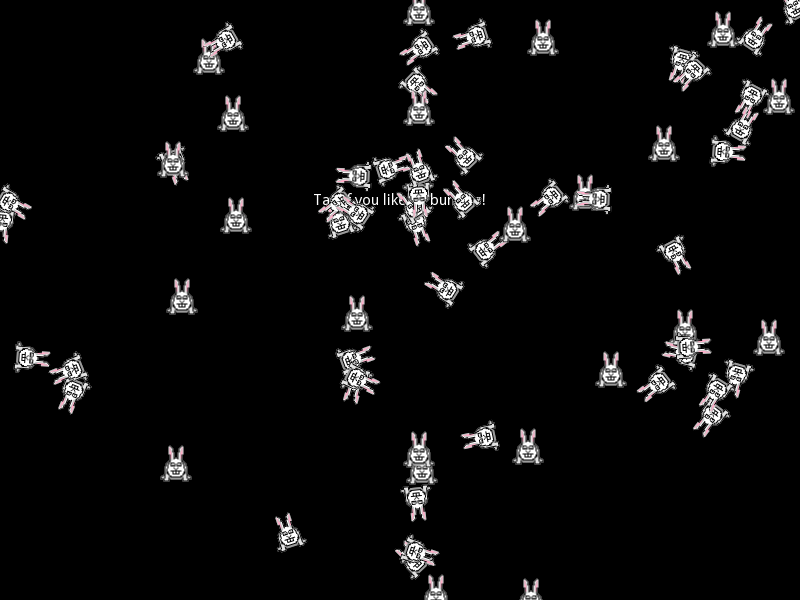
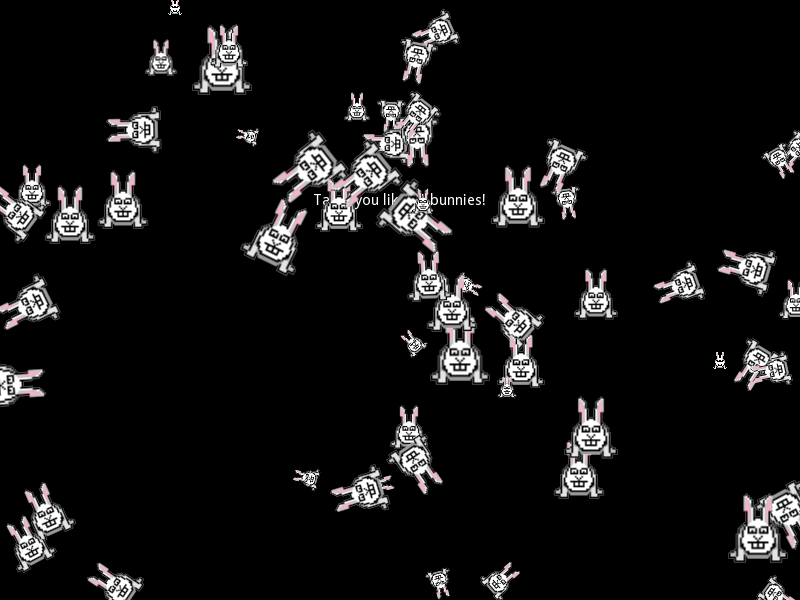
updated screenshot of scaling, reusable SpriteWidget class

diff --git a/kivy_spinning_bunnies.py b/kivy_spinning_bunnies.py
@@ -1,20 +1,15 @@
 #expertmm forked this from https://gist.github.com/tshirtman/6222891
 
 from kivy.app import App
-from kivy.properties import NumericProperty
-from kivy.lang import Builder
+#from kivy.properties import NumericProperty
+#from kivy.lang import Builder
 from kivy.clock import Clock
 
 from kivy.uix.label import Label
-from kivy.graphics import PushMatrix
-from kivy.graphics import PopMatrix
-from kivy.graphics import Rotate
-from kivy.graphics import Rectangle
-from kivy.graphics import Color
 from kivy.uix.widget import Widget
-from kivy.uix.boxlayout import BoxLayout
 
-import math
+from spritewidget import SpriteWidget
+
 import random
 
 def getRandomPos(lessThanX, lessThanY):
@@ -22,71 +17,7 @@ def getRandomPos(lessThanX, lessThanY):
         
 
 #the variables marked with underscores should not be touched except internally
-class FreeWidget(Widget):
-    freeAngle = None
-    freePos = None
-    _rotation_instruction = None
-    _rectangle_instruction = None
-    
-    degreesPerSecond = None
-    speedPixelsPerFrameXYPair = None
-    
-    def __init__(self, **kwargs):
-        super(FreeWidget, self).__init__(**kwargs)
-        self.freeAngle = 0.0
-        self.degreesPerSecond = 0.0
-        self.freePos = (10.0,100.0)
-        self._rotation_instruction = Rotate(angle=self.freeAngle, origin=self.freePos)
-        self._rectangle_instruction = Rectangle(source="bunny.png", pos=self.freePos, size=(41.0,41.0))
-#         with self.canvas.before:
-#             PushMatrix()
-#             Rotate(angle=self.freeAngle, origin = self.freePos)
-        self.canvas.add(PushMatrix())
-        self.canvas.add(self._rotation_instruction)  #self.canvas.add(Rotate(angle=self.freeAngle, origin = self.freePos))
-        self.canvas.add(Color(1.0,1.0,1.0,1.0))
-        self.canvas.add(self._rectangle_instruction)  #self.canvas.add(Rectangle(pos=self.freePos, size=(10.0,20.0)))
-        self.canvas.add(PopMatrix())
-        self.refresh()
-#         with self.canvas.after:
-#             PopMatrix()
-    
-    def refresh(self):
-        if (self.speedPixelsPerFrameXYPair is not None):
-            self.freePos = self.freePos[0] + self.speedPixelsPerFrameXYPair[0], self.freePos[1] + self.speedPixelsPerFrameXYPair[1]
-        self.freeAngle += self.degreesPerSecond
-        self._change_instructions()
-    
-    def _change_instructions(self):
-        self._rectangle_instruction.pos = self.freePos[0]-self._rectangle_instruction.size[0]/2.0, self.freePos[1]-self._rectangle_instruction.size[1]/2.0
-        self._rotation_instruction.origin = self.freePos
-        self._rotation_instruction.angle = self.freeAngle
-        
-        
-    def set_center_x(self, x):
-        self.freePos = float(x), self.freePos[1]
-        self._change_instructions()
 
-    def set_center_y(self, y):
-        self.freePos = self.freePos[0], float(y)
-        self._change_instructions()
-    
-        
-    def get_center_x(self):
-        return self.freePos[0]
-    
-    def get_center_y(self):
-        return self.freePos[1]
-    
-    def load_image_file(self, fileName):
-        self._rectangle_instruction.source=fileName
-    
-    def bounce_x(self):
-        if self.speedPixelsPerFrameXYPair is not None:
-            self.speedPixelsPerFrameXYPair = self.speedPixelsPerFrameXYPair[0]*-1.0, self.speedPixelsPerFrameXYPair[1]
-
-    def bounce_y(self):
-        if self.speedPixelsPerFrameXYPair is not None:
-            self.speedPixelsPerFrameXYPair = self.speedPixelsPerFrameXYPair[0], self.speedPixelsPerFrameXYPair[1]*-1.0
 
 class MainForm(Widget):
     imperativeWidgets = None
@@ -104,11 +35,12 @@ class MainForm(Widget):
         return float(random.randrange(0,int(self.size[0]))), float(random.randrange(0,int(self.size[1])))
         
     def generateWidgetAt(self, x, y):
-        self.lastCreatedWidget = FreeWidget()
+        self.lastCreatedWidget = SpriteWidget()
         self.lastCreatedWidget.set_center_x(x)
         self.lastCreatedWidget.set_center_y(y)
         self.lastCreatedWidget.degreesPerSecond = float(random.randrange(0,3))
         self.lastCreatedWidget.speedPixelsPerFrameXYPair = getRandomPos(5,5)
+        self.lastCreatedWidget.setScale( float(random.randrange(5,20))/10.0 )
         self.add_widget(self.lastCreatedWidget)
         self.imperativeWidgets.append(self.lastCreatedWidget)
         self.imperativeLabel.text = "Tap if you like "+str(len(self.imperativeWidgets)+1)+" bunnies!"
@@ -120,6 +52,9 @@ class MainForm(Widget):
             thisWidget = self.imperativeWidgets[widgetIndex]
             thisWidget.refresh()
             if thisWidget.speedPixelsPerFrameXYPair is not None:
+                #ordered pairs (size is also an ordered pair in Kivy):
+                #index 0 contains the x value
+                #index 1 contains the y value
                 if thisWidget.get_center_x()<0 and thisWidget.speedPixelsPerFrameXYPair[0]<0:
                     thisWidget.bounce_x()
                     thisWidget.set_center_x(0)
@@ -138,20 +73,21 @@ class SpinningBunniesApp(App):
     
     def build(self):
         self.mainForm = MainForm()
-        Clock.schedule_interval(self.mainForm.update, 0)
+        framesPerSecond = 60.0
+        Clock.schedule_interval(self.mainForm.update, 1.0/framesPerSecond)
         
-#         self.freeWidget1 = FreeWidget()
-#         self.lastCreatedWidget = self.freeWidget1
-#         self.freeWidget1.degreesPerSecond = (1.0)
-#         self.mainForm.add_widget(self.freeWidget1)
-#         self.imperativeWidgets.append(self.freeWidget1)
+#         self.spriteWidget1 = SpriteWidget()
+#         self.lastCreatedWidget = self.spriteWidget1
+#         self.spriteWidget1.degreesPerSecond = (1.0)
+#         self.mainForm.add_widget(self.spriteWidget1)
+#         self.imperativeWidgets.append(self.spriteWidget1)
         
-        self.freeWidget2 = FreeWidget()
-        self.lastCreatedWidget = self.freeWidget2
-        self.freeWidget2.degreesPerSecond = (3.0)
-        self.freeWidget2.speedPixelsPerFrameXYPair = 2.0,5.0
-        self.mainForm.add_widget(self.freeWidget2)
-        self.mainForm.imperativeWidgets.append(self.freeWidget2)
+        self.spriteWidget2 = SpriteWidget()
+        self.lastCreatedWidget = self.spriteWidget2
+        self.spriteWidget2.degreesPerSecond = (3.0)
+        self.spriteWidget2.speedPixelsPerFrameXYPair = 2.0,5.0
+        self.mainForm.add_widget(self.spriteWidget2)
+        self.mainForm.imperativeWidgets.append(self.spriteWidget2)
         
         self.mainForm.imperativeLabel = Label(text="Tap if you like bunnies!")
         

diff --git a/spritewidget.py b/spritewidget.py
@@ -1,0 +1,93 @@
+
+from kivy.graphics import PushMatrix
+from kivy.graphics import PopMatrix
+from kivy.graphics import Rotate
+from kivy.graphics import Translate
+from kivy.graphics import Rectangle
+from kivy.graphics import Scale
+from kivy.graphics import Color
+from kivy.uix.widget import Widget
+from kivy.uix.boxlayout import BoxLayout
+
+class SpriteWidget(Widget):
+    freeAngle = None
+    freePos = None
+    _rotation_instruction = None
+    _rectangle_instruction = None
+    _scale_instruction = None
+    _translate_instruction = None
+    
+    degreesPerSecond = None
+    speedPixelsPerFrameXYPair = None
+    
+    def __init__(self, **kwargs):
+        super(SpriteWidget, self).__init__(**kwargs)
+        self.freeAngle = 0.0
+        self.degreesPerSecond = 0.0
+        self.freePos = (10.0,100.0)
+        self._rectangle_instruction = Rectangle(source="bunny.png", pos=(0,0), size=(41.0,41.0))
+        self._rotation_instruction = Rotate(angle=self.freeAngle, origin=(self._rectangle_instruction.size[0]/2.0,self._rectangle_instruction.size[1]/2.0))
+        self._scale_instruction = Scale(1.0,1.0,1.0)
+        self._translate_instruction = Translate(0,0)
+        
+        self.canvas.add(PushMatrix())
+        self.canvas.add(self._translate_instruction)
+        self.canvas.add(self._rotation_instruction)
+        self.canvas.add(self._scale_instruction)
+        self.canvas.add(Color(1.0,1.0,1.0,1.0))
+        self.canvas.add(self._rectangle_instruction)
+        self.canvas.add(PopMatrix())
+        
+        self.refresh()
+#         with self.canvas.after:
+#             PopMatrix()
+    
+    def refresh(self):
+        if (self.speedPixelsPerFrameXYPair is not None):
+            self.freePos = self.freePos[0] + self.speedPixelsPerFrameXYPair[0], self.freePos[1] + self.speedPixelsPerFrameXYPair[1]
+        self.freeAngle += self.degreesPerSecond
+        self._change_instructions()
+    
+    def _change_instructions(self):
+        self._translate_instruction.x = self.freePos[0]-self._rectangle_instruction.size[0]*self._scale_instruction.x/2
+        self._translate_instruction.y = self.freePos[1]-self._rectangle_instruction.size[1]*self._scale_instruction.y/2
+        #self._rectangle_instruction.pos = self.freePos[0]-self._rectangle_instruction.size[0]*self._scale_instruction.x/2.0, self.freePos[1]-self._rectangle_instruction.size[1]*self._scale_instruction.y/2.0
+        self._rotation_instruction.origin = self._rectangle_instruction.size[0]*self._scale_instruction.x/2.0, self._rectangle_instruction.size[1]*self._scale_instruction.x/2.0 
+        self._rotation_instruction.angle = self.freeAngle
+        
+        
+    def set_center_x(self, x):
+        self.freePos = float(x), self.freePos[1]
+        self._change_instructions()
+
+    def set_center_y(self, y):
+        self.freePos = self.freePos[0], float(y)
+        self._change_instructions()
+    
+        
+    def get_center_x(self):
+        return self.freePos[0]
+    
+    def get_center_y(self):
+        return self.freePos[1]
+    
+    def load_image_file(self, fileName):
+        self._rectangle_instruction.source=fileName
+    
+    def bounce_x(self):
+        if self.speedPixelsPerFrameXYPair is not None:
+            self.speedPixelsPerFrameXYPair = self.speedPixelsPerFrameXYPair[0]*-1.0, self.speedPixelsPerFrameXYPair[1]
+
+    def bounce_y(self):
+        if self.speedPixelsPerFrameXYPair is not None:
+            self.speedPixelsPerFrameXYPair = self.speedPixelsPerFrameXYPair[0], self.speedPixelsPerFrameXYPair[1]*-1.0
+            
+    def setScale(self, multiplier):
+        self._scale_instruction.x = float(multiplier)
+        self._scale_instruction.y = float(multiplier)
+        self._change_instructions()
+
+    def setScaleXY(self, xMultiplier, yMultiplier):
+        self._scale_instruction.x = float(xMultiplier)
+        self._scale_instruction.y = float(yMultiplier)
+        self._change_instructions()
